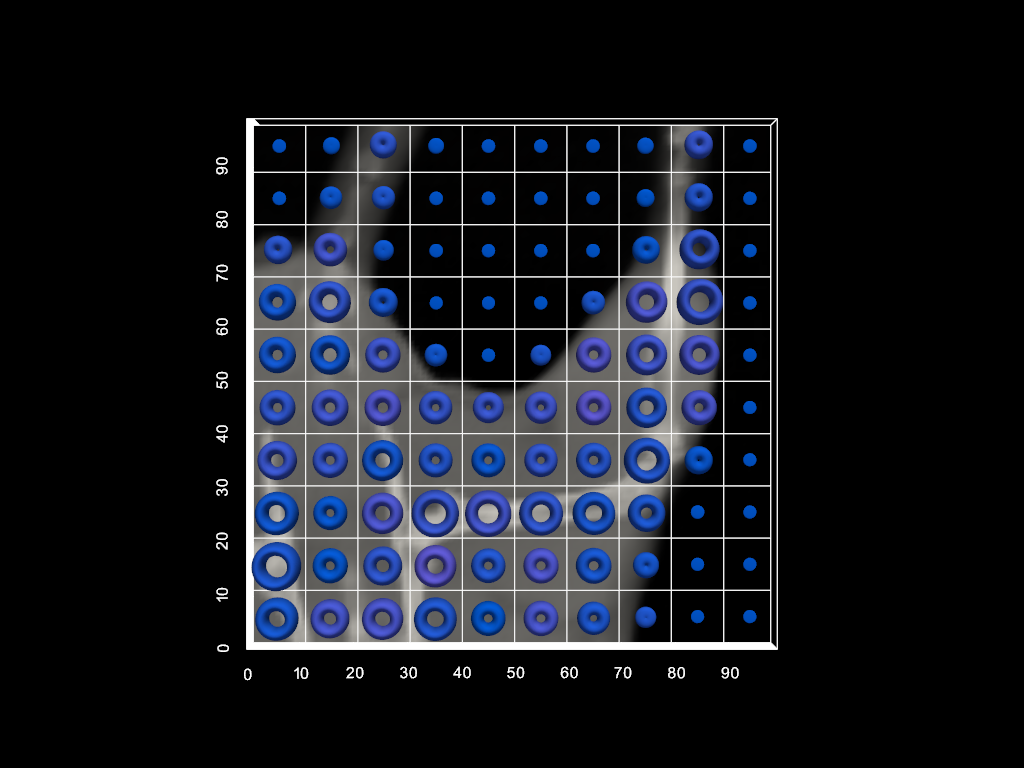
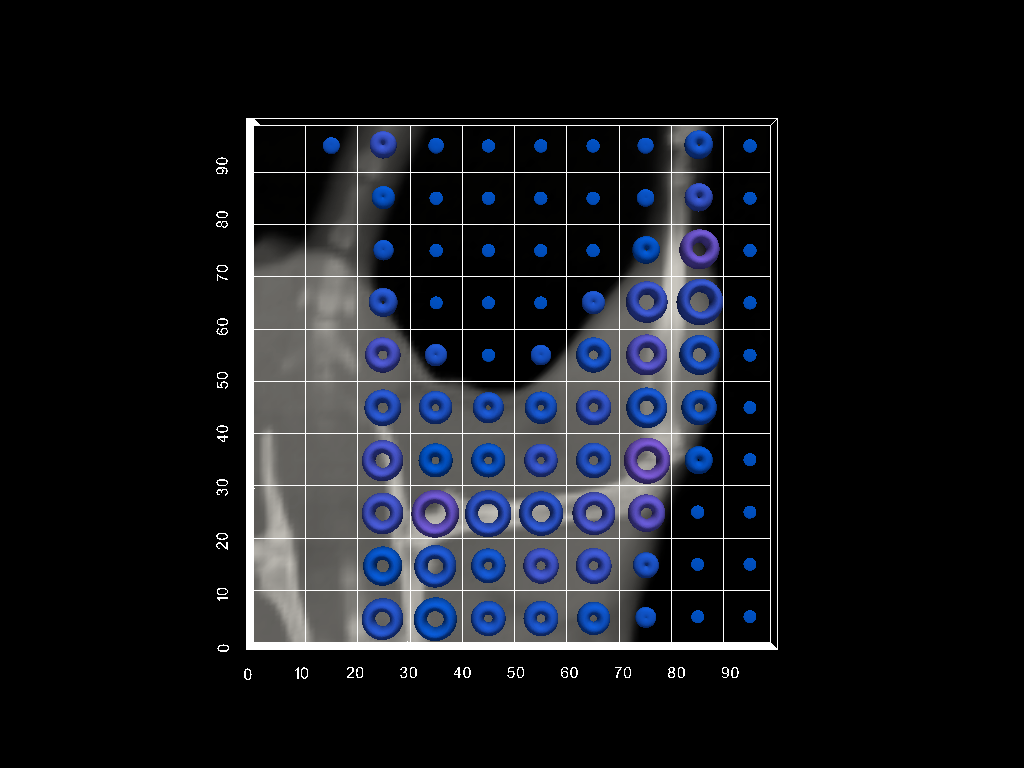
add_mesh remove cpos

diff --git a/vtktesting/pyvista/supertorus_vtki_def.py b/vtktesting/pyvista/supertorus_vtki_def.py
@@ -59,7 +59,7 @@ print('Plotting ...')
 
 # setup the screen to plot image
 p = pyvista.Plotter()
-p.add_mesh(image, cpos='xy', cmap='Greys_r')
+p.add_mesh(image, cmap='Greys_r')
 p.show_bounds(grid='front', xlabel='', ylabel='', zlabel='', location='outer', all_edges=True)
 p.remove_scalar_bar()
 p.set_background(color='black')
